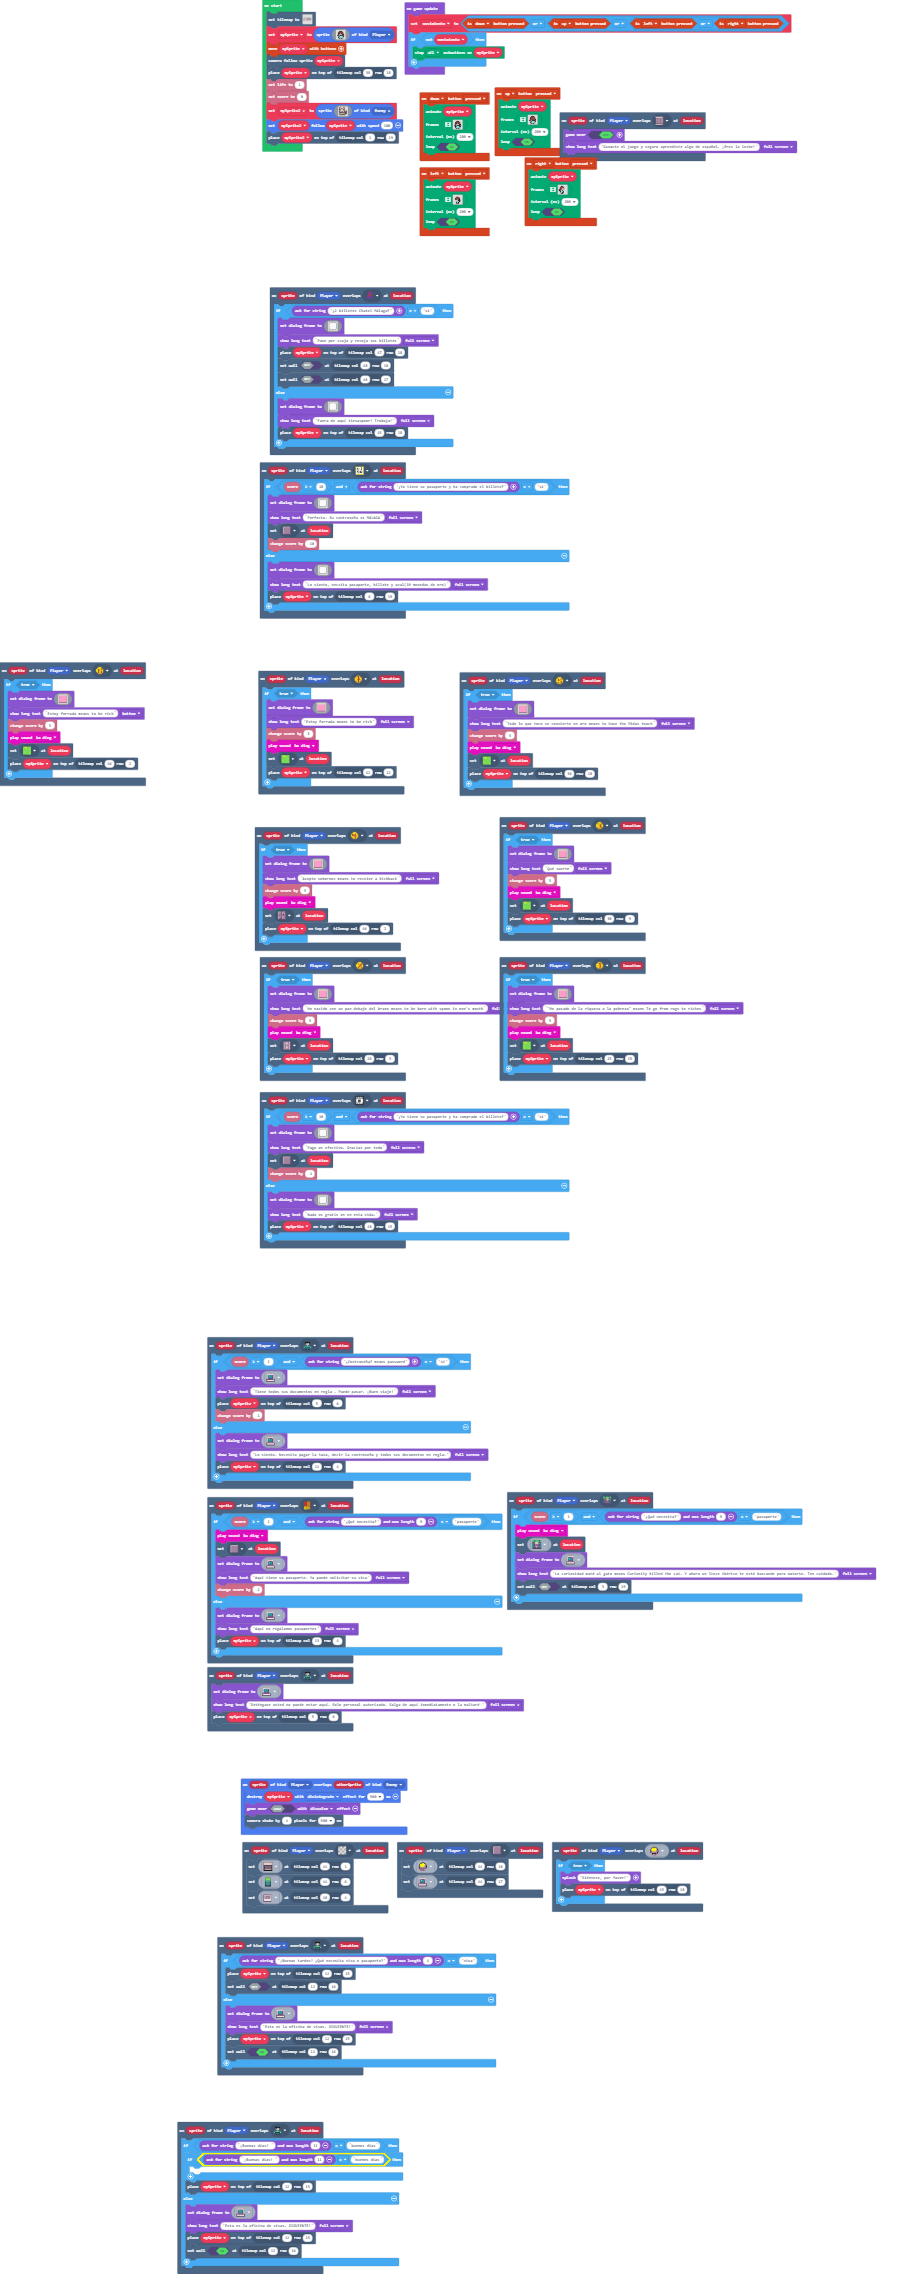
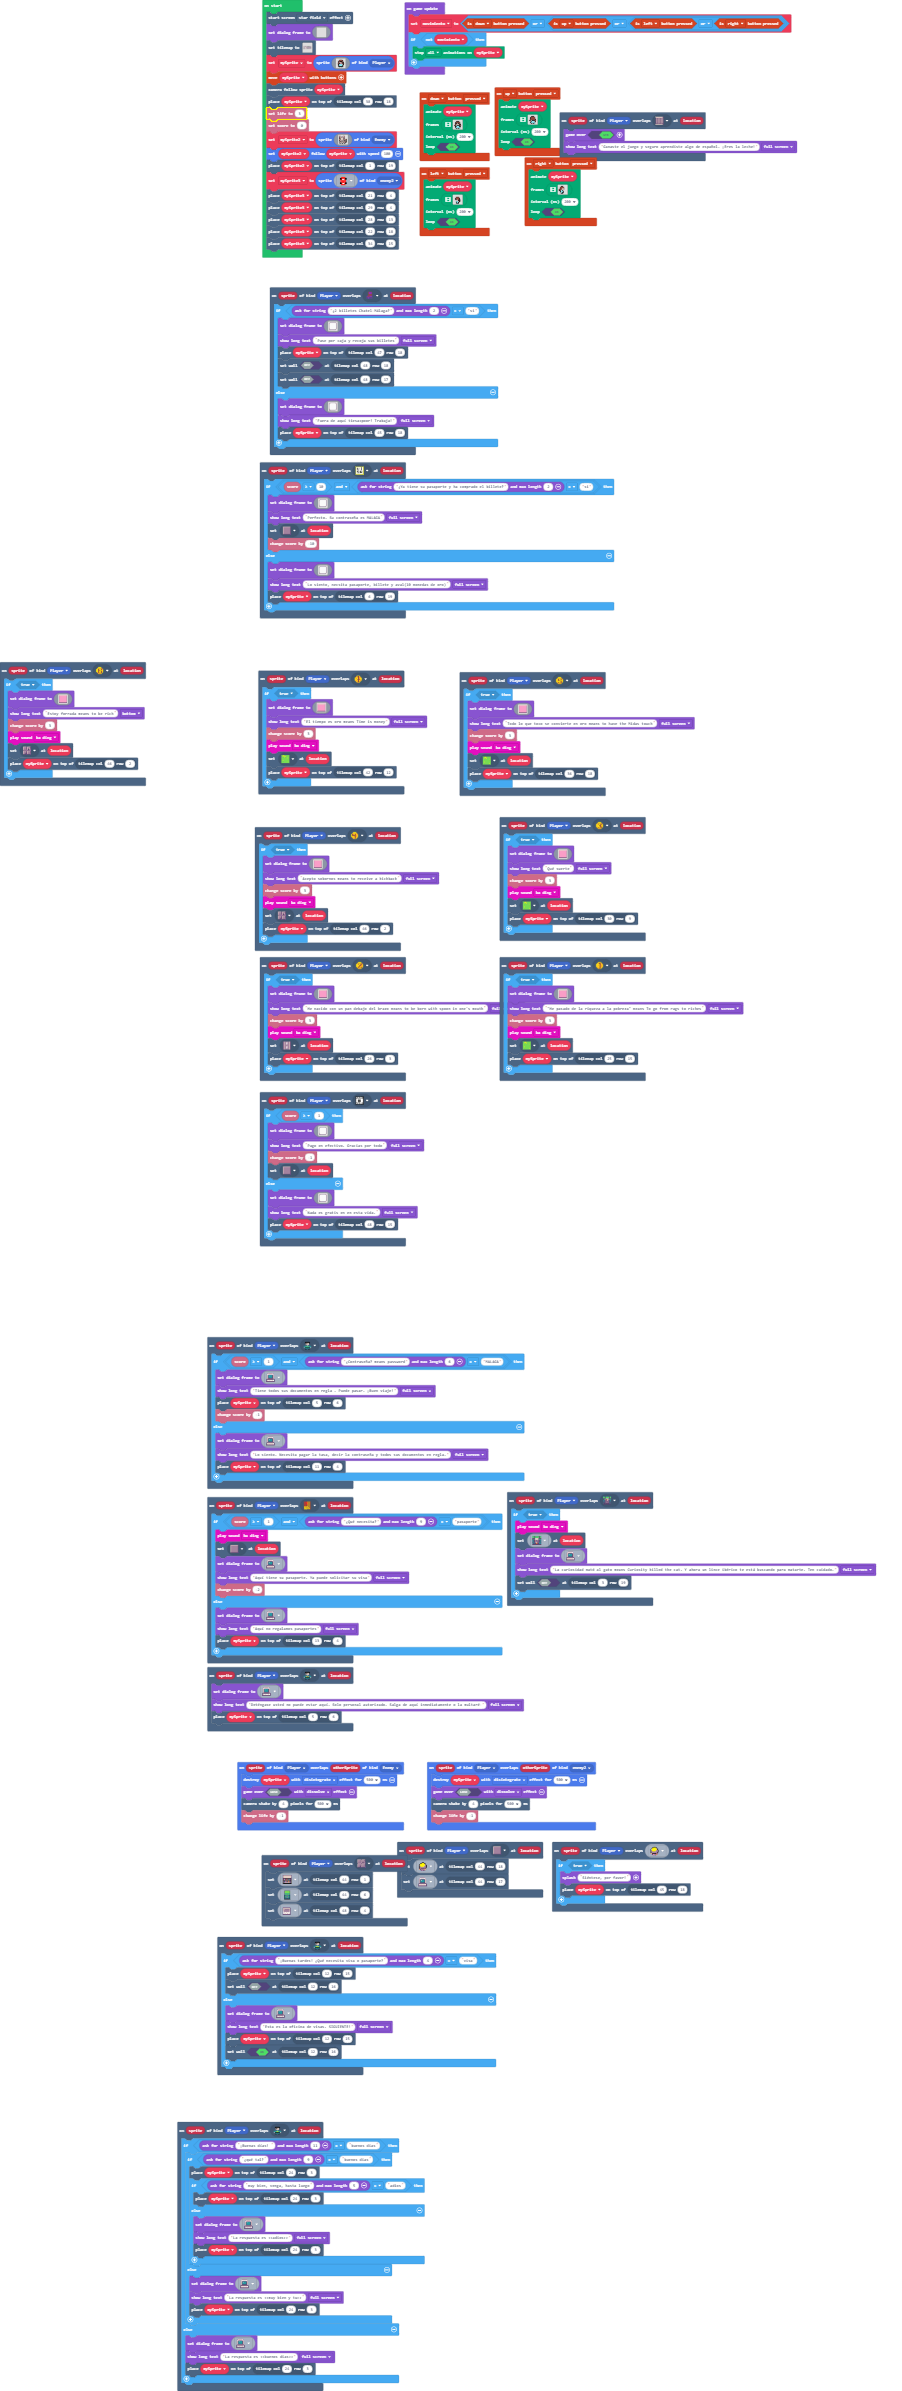
Update pxt.json, main.blocks, main.ts

Changed region(s): [[0.1863, 0.0, 0.9623, 0.9991], [0.0, 0.2498, 0.1552, 0.3434]]

diff --git a/main.ts b/main.ts
@@ -1,3 +1,6 @@
+namespace SpriteKind {
+    export const enemy2 = SpriteKind.create()
+}
 scene.onOverlapTile(SpriteKind.Player, sprites.builtin.villager4WalkBack2, function (sprite, location) {
     if (true) {
         game.splash("Siéntese, por favor!")
@@ -17,15 +20,24 @@ scene.onOverlapTile(SpriteKind.Player, myTiles.tile3, function (sprite, location
 })
 scene.onOverlapTile(SpriteKind.Player, myTiles.tile14, function (sprite, location) {
     if (game.askForString("¡Buenas días! ", 11) == "buenos dias") {
-        if (game.askForString("¡Buenas días! ", 11) == "buenos dias") {
-        	
+        if (game.askForString("¿qué tal?", 9) == "buenos dias") {
+            tiles.placeOnTile(mySprite, tiles.getTileLocation(24, 3))
+            if (game.askForString("muy bien, venga, hasta luego", 5) == "adios") {
+                tiles.placeOnTile(mySprite, tiles.getTileLocation(24, 3))
+            } else {
+                game.setDialogFrame(sprites.builtin.computer1)
+                game.showLongText("La respuesta es <<adios>>", DialogLayout.Full)
+                tiles.placeOnTile(mySprite, tiles.getTileLocation(24, 3))
+            }
+        } else {
+            game.setDialogFrame(sprites.builtin.computer1)
+            game.showLongText("La respuesta es <<muy bien y tu>>", DialogLayout.Full)
+            tiles.placeOnTile(mySprite, tiles.getTileLocation(24, 3))
         }
-        tiles.placeOnTile(mySprite, tiles.getTileLocation(12, 15))
     } else {
         game.setDialogFrame(sprites.builtin.computer1)
-        game.showLongText("Esta es la oficina de visas. SIGUIENTE!", DialogLayout.Full)
-        tiles.placeOnTile(mySprite, tiles.getTileLocation(12, 15))
-        tiles.setWallAt(tiles.getTileLocation(12, 16), true)
+        game.showLongText("La respuesta es <<buenos dias>>", DialogLayout.Full)
+        tiles.placeOnTile(mySprite, tiles.getTileLocation(24, 3))
     }
 })
 controller.up.onEvent(ControllerButtonEvent.Pressed, function () {
@@ -149,7 +161,7 @@ scene.onOverlapTile(SpriteKind.Player, myTiles.tile22, function (sprite, locatio
             bccccccccccccccccccccccb
             cccccccccccccccccccccccc
             `)
-        game.showLongText("Estoy forrada means to be rich", DialogLayout.Full)
+        game.showLongText("El tiempo es oro means Time is money", DialogLayout.Full)
         info.changeScoreBy(3)
         music.baDing.play()
         tiles.setTileAt(location, sprites.castle.tileGrass1)
@@ -157,7 +169,7 @@ scene.onOverlapTile(SpriteKind.Player, myTiles.tile22, function (sprite, locatio
     }
 })
 scene.onOverlapTile(SpriteKind.Player, myTiles.tile23, function (sprite, location) {
-    if (info.score() >= 10 && game.askForString("¿Ya tiene su pasaporte y ha comprado el billete?") == "si") {
+    if (info.score() >= 1) {
         game.setDialogFrame(img`
             .....cccccccccccccc.....
             ...cbd111111111111dbc...
@@ -185,8 +197,8 @@ scene.onOverlapTile(SpriteKind.Player, myTiles.tile23, function (sprite, locatio
             ccccc...................
             `)
         game.showLongText("Pago en efectivo. Gracias por todo", DialogLayout.Full)
-        tiles.setTileAt(location, sprites.dungeon.floorDark2)
         info.changeScoreBy(-1)
+        tiles.setTileAt(location, sprites.dungeon.floorDark2)
     } else {
         game.setDialogFrame(img`
             .....cccccccccccccc.....
@@ -219,7 +231,7 @@ scene.onOverlapTile(SpriteKind.Player, myTiles.tile23, function (sprite, locatio
     }
 })
 scene.onOverlapTile(SpriteKind.Player, myTiles.tile4, function (sprite, location) {
-    if (info.score() >= 10 && game.askForString("¿Ya tiene su pasaporte y ha comprado el billete?") == "si") {
+    if (info.score() >= 10 && game.askForString("¿Ya tiene su pasaporte y ha comprado el billete?", 2) == "si") {
         game.setDialogFrame(img`
             .....cccccccccccccc.....
             ...cbd111111111111dbc...
@@ -280,13 +292,8 @@ scene.onOverlapTile(SpriteKind.Player, myTiles.tile4, function (sprite, location
         tiles.placeOnTile(mySprite, tiles.getTileLocation(6, 19))
     }
 })
-scene.onOverlapTile(SpriteKind.Player, myTiles.transparency16, function (sprite, location) {
-    tiles.setTileAt(tiles.getTileLocation(44, 1), sprites.builtin.largeShelf)
-    tiles.setTileAt(tiles.getTileLocation(44, 6), sprites.builtin.smallShelf1)
-    tiles.setTileAt(tiles.getTileLocation(48, 4), sprites.builtin.computer0)
-})
 scene.onOverlapTile(SpriteKind.Player, sprites.dungeon.greenSwitchUp, function (sprite, location) {
-    if (info.score() >= 1 && game.askForString("¿Qué necesita?", 9) == "pasaporte") {
+    if (true) {
         music.baDing.play()
         tiles.setTileAt(location, sprites.dungeon.greenSwitchDown)
         game.setDialogFrame(sprites.builtin.computer1)
@@ -363,6 +370,12 @@ scene.onOverlapTile(SpriteKind.Player, myTiles.tile15, function (sprite, locatio
         tiles.setTileAt(location, sprites.castle.tileGrass1)
         tiles.placeOnTile(mySprite, tiles.getTileLocation(25, 15))
     }
+})
+sprites.onOverlap(SpriteKind.Player, SpriteKind.enemy2, function (sprite, otherSprite) {
+    mySprite.destroy(effects.disintegrate, 500)
+    game.over(false, effects.dissolve)
+    scene.cameraShake(4, 500)
+    info.changeLifeBy(-1)
 })
 controller.left.onEvent(ControllerButtonEvent.Pressed, function () {
     animation.runImageAnimation(
@@ -445,7 +458,7 @@ scene.onOverlapTile(SpriteKind.Player, sprites.dungeon.stairWest, function (spri
     game.showLongText("Ganaste el juego y seguro aprendiste algo de español. ¡Eres la leche!", DialogLayout.Full)
 })
 scene.onOverlapTile(SpriteKind.Player, myTiles.tile19, function (sprite, location) {
-    if (game.askForString("¿2 billetes Chatel-Málaga?") == "si") {
+    if (game.askForString("¿2 billetes Chatel-Málaga?", 2) == "si") {
         game.setDialogFrame(img`
             .....cccccccccccccc.....
             ...cbd111111111111dbc...
@@ -472,7 +485,7 @@ scene.onOverlapTile(SpriteKind.Player, myTiles.tile19, function (sprite, locatio
             .b11bcccccccccccccc.....
             ccccc...................
             `)
-        game.showLongText("Pase por ccaja y recoja sus billetes", DialogLayout.Full)
+        game.showLongText("Pase por caja y recoja sus billetes", DialogLayout.Full)
         tiles.placeOnTile(mySprite, tiles.getTileLocation(47, 18))
         tiles.setWallAt(tiles.getTileLocation(48, 18), false)
         tiles.setWallAt(tiles.getTileLocation(48, 17), false)
@@ -508,7 +521,7 @@ scene.onOverlapTile(SpriteKind.Player, myTiles.tile19, function (sprite, locatio
     }
 })
 scene.onOverlapTile(SpriteKind.Player, myTiles.tile11, function (sprite, location) {
-    if (info.score() >= 1 && game.askForString("¿Contraseña? means password") == "si") {
+    if (info.score() >= 1 && game.askForString("¿Contraseña? means password", 6) == "MALAGA") {
         game.setDialogFrame(sprites.builtin.computer1)
         game.showLongText("Tiene todos sus documentos en regla . Puede pasar. ¡Buen viaje!", DialogLayout.Full)
         tiles.placeOnTile(mySprite, tiles.getTileLocation(5, 6))
@@ -806,6 +819,11 @@ scene.onOverlapTile(SpriteKind.Player, myTiles.tile18, function (sprite, locatio
         tiles.placeOnTile(mySprite, tiles.getTileLocation(36, 18))
     }
 })
+scene.onOverlapTile(SpriteKind.Player, sprites.dungeon.floorDark1, function (sprite, location) {
+    tiles.setTileAt(tiles.getTileLocation(44, 1), sprites.builtin.largeShelf)
+    tiles.setTileAt(tiles.getTileLocation(44, 6), sprites.builtin.smallShelf1)
+    tiles.setTileAt(tiles.getTileLocation(48, 4), sprites.builtin.computer0)
+})
 scene.onOverlapTile(SpriteKind.Player, myTiles.tile20, function (sprite, location) {
     if (true) {
         game.setDialogFrame(img`
@@ -837,7 +855,7 @@ scene.onOverlapTile(SpriteKind.Player, myTiles.tile20, function (sprite, locatio
         game.showLongText("Estoy forrada means to be rich", DialogLayout.Bottom)
         info.changeScoreBy(3)
         music.baDing.play()
-        tiles.setTileAt(location, sprites.castle.tileGrass1)
+        tiles.setTileAt(location, sprites.dungeon.floorDark1)
         tiles.placeOnTile(mySprite, tiles.getTileLocation(46, 2))
     }
 })
@@ -854,31 +872,50 @@ sprites.onOverlap(SpriteKind.Player, SpriteKind.Enemy, function (sprite, otherSp
     mySprite.destroy(effects.disintegrate, 500)
     game.over(false, effects.dissolve)
     scene.cameraShake(4, 500)
+    info.changeLifeBy(-1)
 })
 let movimiento = false
 let mySprite: Sprite = null
[1 lines of base64/hex data omitted]
+effects.starField.startScreenEffect()
+game.setDialogFrame(img`
+    . . . . . . . . . . . . . . . 
+    . . . . . . . . . . . . . . . 
+    . . . . . . . . . . . . . . . 
+    . . . . . . . . . . . . . . . 
+    . . . . . . . . . . . . . . . 
+    . . . . . . . . . . . . . . . 
+    . . . . . . . . . . . . . . . 
+    . . . . . . . . . . . . . . . 
+    . . . . . . . . . . . . . . . 
+    . . . . . . . . . . . . . . . 
+    . . . . . . . . . . . . . . . 
+    . . . . . . . . . . . . . . . 
+    . . . . . . . . . . . . . . . 
+    . . . . . . . . . . . . . . . 
+    . . . . . . . . . . . . . . . 
+    `)
[1 lines of base64/hex data omitted]
     2.2...2222222222.222222222222222222222222222222222
-    2.....2222.....2.2..2.22.2222.22222222222222.....2
+    2.....2222.....2.2..2.22.2222.22222222222222.2..22
     2...2.2222.......2..2.22.2.22.2222222......2.....2
     2..2..2222222.2222..2.22.2.22.22222..............2
-    2...2...............2222.2.222222..2222....2.....2
-    2.....222...........2.22.2.22.2............2.....2
-    2..2..222...........2......................2.....2
-    2.....2222.........22222.22..2222.22......22222222
-    2.....222..........222....2..2..2.........22222222
+    2...2...............2.22.2.22.222..2222....2....22
+    2.....222...........2.2....................2.....2
+    2..2..222...........2......................2.2...2
+    2.....2222.........22.............22.......2222222
+    2.....222..........222....2..2..2..........2222222
     2.2.2.2222................2..2....2222...........2
-    2.....222...............222..2222.2..2...2.2222222
-    2..2..2222...........................2...2.......2
-    2.....222..........222.......2222.2222...2.2222222
-    2.....222..........222.22222222..........2.......2
-    222222222...........2..2...2....2........2.2222222
-    2222.2222...........2..2...2.2222.22.2...........2
-    22...2222222222222..222222.2.......2.2....22222..2
-    2222.2222........2..22.............2.2.22.222...22
-    2..2.2222........2..2.2......22222.2......22....22
+    2.....222...............222..2222.2..2..2..2222222
+    2..2..2222...........................2..2........2
+    2.....222..........222............2222..2..2222222
+    2.....222..........222.22222.22.........2........2
+    222222222...........2..2...2.2..2.......2..2222222
+    2222.2222...........2..2...2.2222................2
+    22...2222222222222..22..2..2...............2222..2
+    2222.2222........2..22..................2..22...22
+    2..2.2222........2..2.................2...22....22
     2..2.............222222222222222222222222222222222
-    `, [myTiles.transparency16,sprites.dungeon.floorDarkDiamond,sprites.dungeon.doorClosedEast,sprites.dungeon.doorClosedNorth,sprites.vehicle.roadVertical,sprites.vehicle.roadIntersection2,myTiles.tile1,sprites.vehicle.roadIntersection1,sprites.dungeon.greenOuterNorthWest,sprites.dungeon.greenOuterWest1,sprites.dungeon.darkGroundSouthWest1,myTiles.tile2,sprites.dungeon.greenOuterNorth2,myTiles.tile3,sprites.dungeon.darkGroundCenter,sprites.dungeon.greenOuterNorth1,sprites.dungeon.doorClosedSouth,sprites.dungeon.stairWest,myTiles.tile4,sprites.vehicle.roadIntersection4,sprites.dungeon.greenOuterNorthEast,sprites.dungeon.greenOuterEast0,sprites.dungeon.stairLarge,myTiles.tile5,myTiles.tile6,myTiles.tile7,myTiles.tile8,sprites.vehicle.roadTurn1,sprites.vehicle.roadTurn3,sprites.dungeon.floorLight0,sprites.vehicle.roadHorizontal,sprites.vehicle.roadTurn2,sprites.vehicle.roadTurn4,sprites.dungeon.purpleOuterNorthWest,sprites.dungeon.purpleOuterWest1,sprites.dungeon.purpleOuterSouthEast,sprites.dungeon.floorLight1,myTiles.tile9,sprites.dungeon.purpleOuterNorth1,sprites.dungeon.stairLadder,sprites.dungeon.purpleOuterSouth1,myTiles.tile10,sprites.dungeon.stairNorth,myTiles.tile11,sprites.dungeon.greenSwitchUp,myTiles.tile12,sprites.dungeon.purpleOuterNorthEast,sprites.dungeon.purpleOuterEast0,sprites.dungeon.purpleOuterSouthWest,sprites.dungeon.floorLight4,sprites.builtin.brick,sprites.dungeon.floorDark2,sprites.castle.saplingOak,sprites.builtin.forestTiles0,myTiles.tile13,myTiles.tile14,sprites.castle.tileGrass1,sprites.castle.saplingPine,myTiles.tile15,myTiles.tile16,myTiles.tile17,sprites.vehicle.roadIntersection3,myTiles.tile18,sprites.dungeon.floorDark1,myTiles.tile19,myTiles.tile20,myTiles.tile21,myTiles.tile22,myTiles.tile23], TileScale.Sixteen))
+    `, [myTiles.transparency16,sprites.dungeon.floorDarkDiamond,sprites.dungeon.doorClosedEast,sprites.dungeon.doorClosedNorth,sprites.vehicle.roadVertical,sprites.vehicle.roadIntersection2,myTiles.tile1,sprites.vehicle.roadIntersection1,sprites.dungeon.greenOuterNorthWest,sprites.dungeon.greenOuterWest1,sprites.dungeon.darkGroundSouthWest1,myTiles.tile2,sprites.dungeon.greenOuterNorth2,myTiles.tile3,sprites.dungeon.darkGroundCenter,sprites.dungeon.greenOuterNorth1,sprites.dungeon.doorClosedSouth,sprites.dungeon.stairWest,myTiles.tile4,sprites.vehicle.roadIntersection4,sprites.dungeon.greenOuterNorthEast,sprites.dungeon.greenOuterEast0,sprites.dungeon.stairLarge,myTiles.tile5,myTiles.tile6,myTiles.tile7,myTiles.tile8,sprites.vehicle.roadTurn1,sprites.vehicle.roadTurn3,sprites.dungeon.floorLight0,sprites.vehicle.roadHorizontal,sprites.vehicle.roadTurn2,sprites.vehicle.roadTurn4,sprites.dungeon.purpleOuterNorthWest,sprites.dungeon.purpleOuterWest1,sprites.dungeon.purpleOuterSouthEast,sprites.dungeon.floorLight1,myTiles.tile9,sprites.dungeon.purpleOuterNorth1,sprites.dungeon.stairLadder,sprites.dungeon.purpleOuterSouth1,myTiles.tile10,sprites.dungeon.stairNorth,myTiles.tile11,sprites.dungeon.greenSwitchUp,myTiles.tile12,sprites.dungeon.purpleOuterNorthEast,sprites.dungeon.purpleOuterEast0,sprites.dungeon.purpleOuterSouthWest,sprites.dungeon.floorLight4,sprites.builtin.brick,sprites.dungeon.floorDark2,sprites.castle.saplingOak,sprites.builtin.forestTiles0,myTiles.tile13,myTiles.tile14,sprites.castle.tileGrass1,sprites.castle.saplingPine,myTiles.tile15,myTiles.tile16,myTiles.tile17,sprites.vehicle.roadIntersection3,myTiles.tile18,sprites.dungeon.floorDark1,myTiles.tile19,myTiles.tile20,myTiles.tile21,myTiles.tile22,myTiles.tile23,sprites.dungeon.floorDark4], TileScale.Sixteen))
 mySprite = sprites.create(img`
     . . . . . . . . . . . . . . . . 
     . . . . . f f f f f f . . . . . 
@@ -900,7 +937,7 @@ mySprite = sprites.create(img`
 controller.moveSprite(mySprite)
 scene.cameraFollowSprite(mySprite)
 tiles.placeOnTile(mySprite, tiles.getTileLocation(38, 18))
-info.setLife(1)
+info.setLife(3)
 info.setScore(0)
 let mySprite2 = sprites.create(img`
     e e e . . . . e e e . . . . 
@@ -920,6 +957,12 @@ let mySprite2 = sprites.create(img`
     `, SpriteKind.Enemy)
 mySprite2.follow(mySprite, 100)
 tiles.placeOnTile(mySprite2, tiles.getTileLocation(1, 19))
+let mySprite3 = sprites.create(myTiles.tile8, SpriteKind.enemy2)
+tiles.placeOnTile(mySprite3, tiles.getTileLocation(21, 4))
+tiles.placeOnTile(mySprite3, tiles.getTileLocation(29, 4))
+tiles.placeOnTile(mySprite3, tiles.getTileLocation(28, 13))
+tiles.placeOnTile(mySprite3, tiles.getTileLocation(22, 18))
+tiles.placeOnTile(mySprite3, tiles.getTileLocation(34, 15))
 game.onUpdate(function () {
     movimiento = controller.down.isPressed() || (controller.up.isPressed() || (controller.left.isPressed() || controller.right.isPressed()))
     if (!(movimiento)) {
